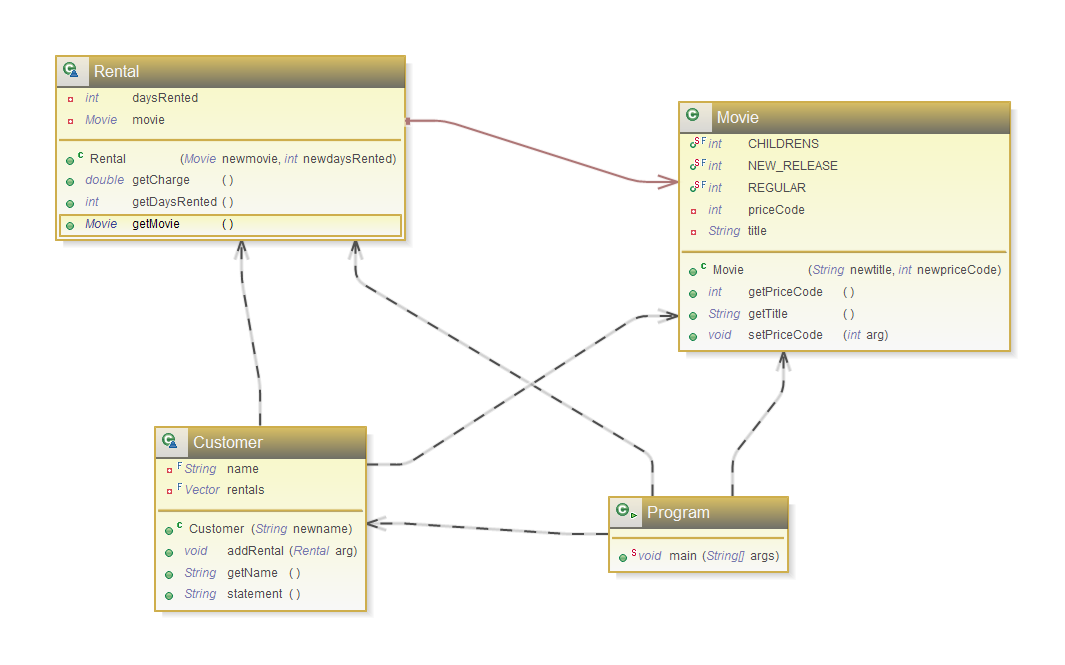
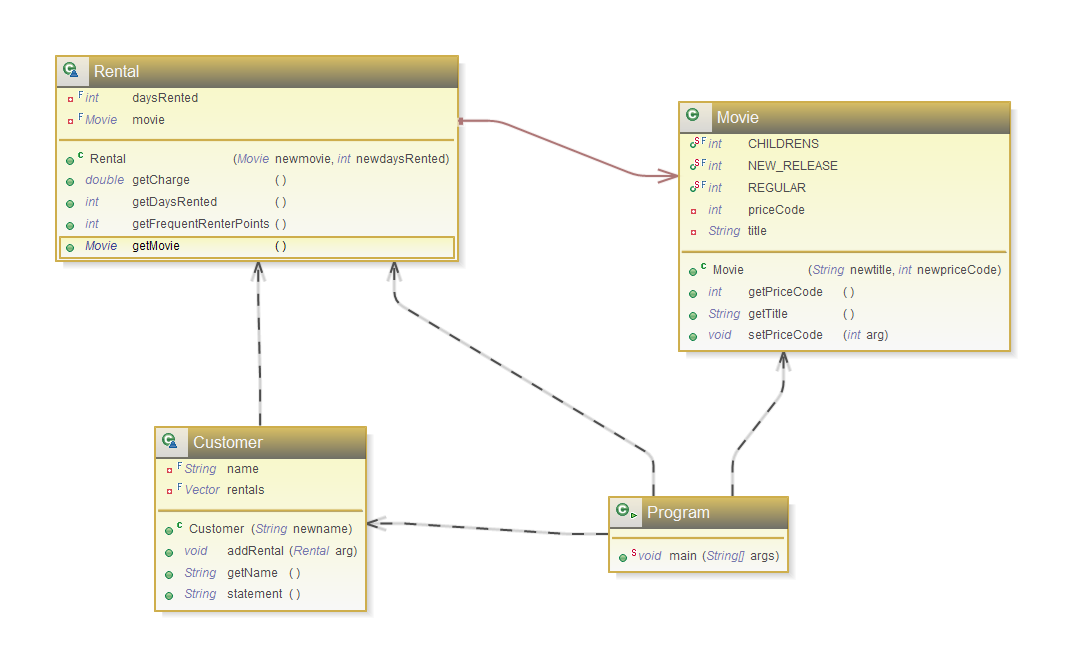
Refactoring step: Extract Method
(frequentRenterPoints)

diff --git a/src/refactoring/Rental.java b/src/refactoring/Rental.java
@@ -1,17 +1,22 @@
 package refactoring;
+
 class Rental {
-    private Movie movie;
-    private int daysRented;
-    public Rental(Movie newmovie, int newdaysRented) {
-        movie = newmovie;
-        daysRented = newdaysRented;
-    }
-    public int getDaysRented() {
-        return daysRented;
-    }
-    public Movie getMovie() {
-        return movie;
-    }
+	private final Movie movie;
+	private final int daysRented;
+
+	public Rental(Movie newmovie, int newdaysRented) {
+		movie = newmovie;
+		daysRented = newdaysRented;
+	}
+
+	public int getDaysRented() {
+		return daysRented;
+	}
+
+	public Movie getMovie() {
+		return movie;
+	}
+
 	/**
 	 * @param thisAmount
 	 * @return
@@ -35,4 +40,16 @@ class Rental {
 		}
 		return result;
 	}
+
+	/**
+	 * @param frequentRenterPoints
+	 * @param each
+	 * @return
+	 */
+	public int getFrequentRenterPoints() {
+		if ((getMovie().getPriceCode() == Movie.NEW_RELEASE) && getDaysRented() > 1)
+			return 2;
+		return 1;
+	}
+
 }

diff --git a/src/refactoring/Customer.java b/src/refactoring/Customer.java
@@ -29,11 +29,7 @@ class Customer {
 		while (enum_rentals.hasMoreElements()) {
 			Rental each = (Rental) enum_rentals.nextElement();
 
-			// add frequent renter points
-			frequentRenterPoints++;
-			// add bonus for a two day new release rental
-			if ((each.getMovie().getPriceCode() == Movie.NEW_RELEASE) && each.getDaysRented() > 1)
-				frequentRenterPoints++;
+			frequentRenterPoints += each.getFrequentRenterPoints();
 			// show figures for this rental
 			result += "\t" + each.getMovie().getTitle() + "\t" + "\t" + each.getDaysRented() + "\t"
 					+ String.valueOf(each.getCharge()) + "\n";
